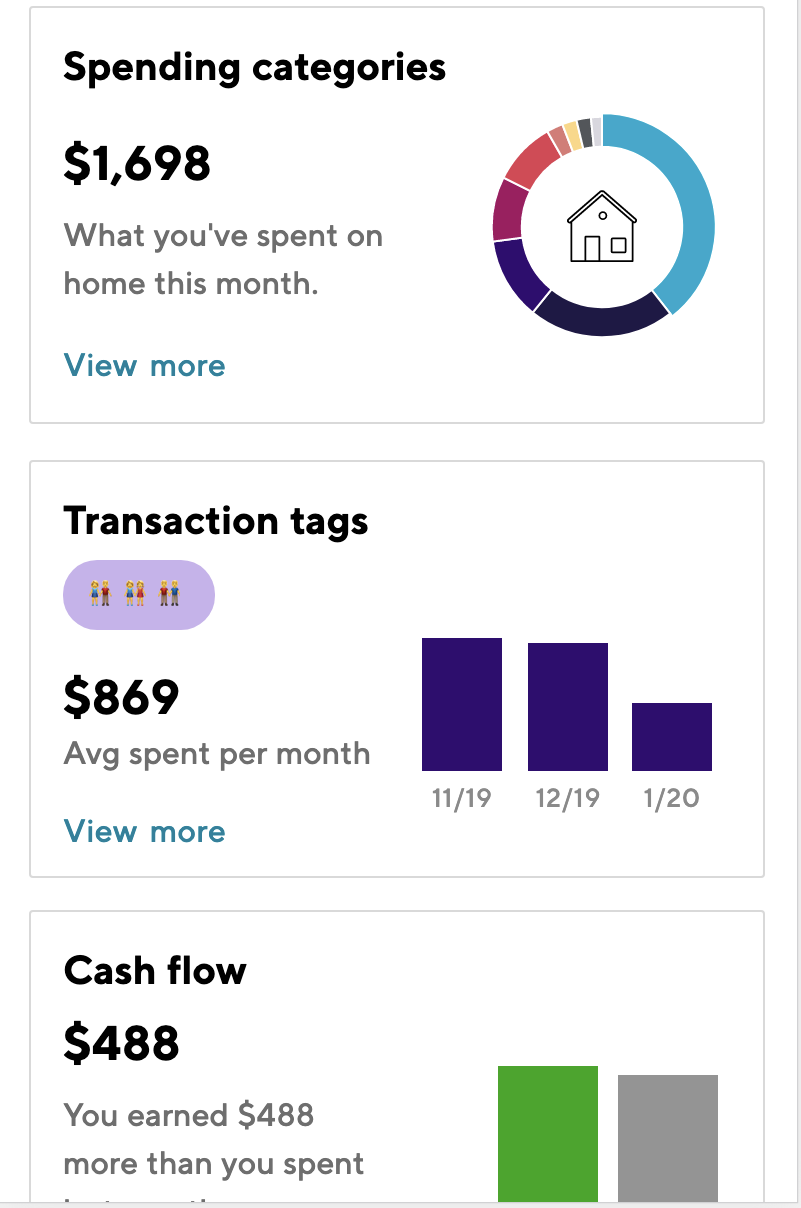
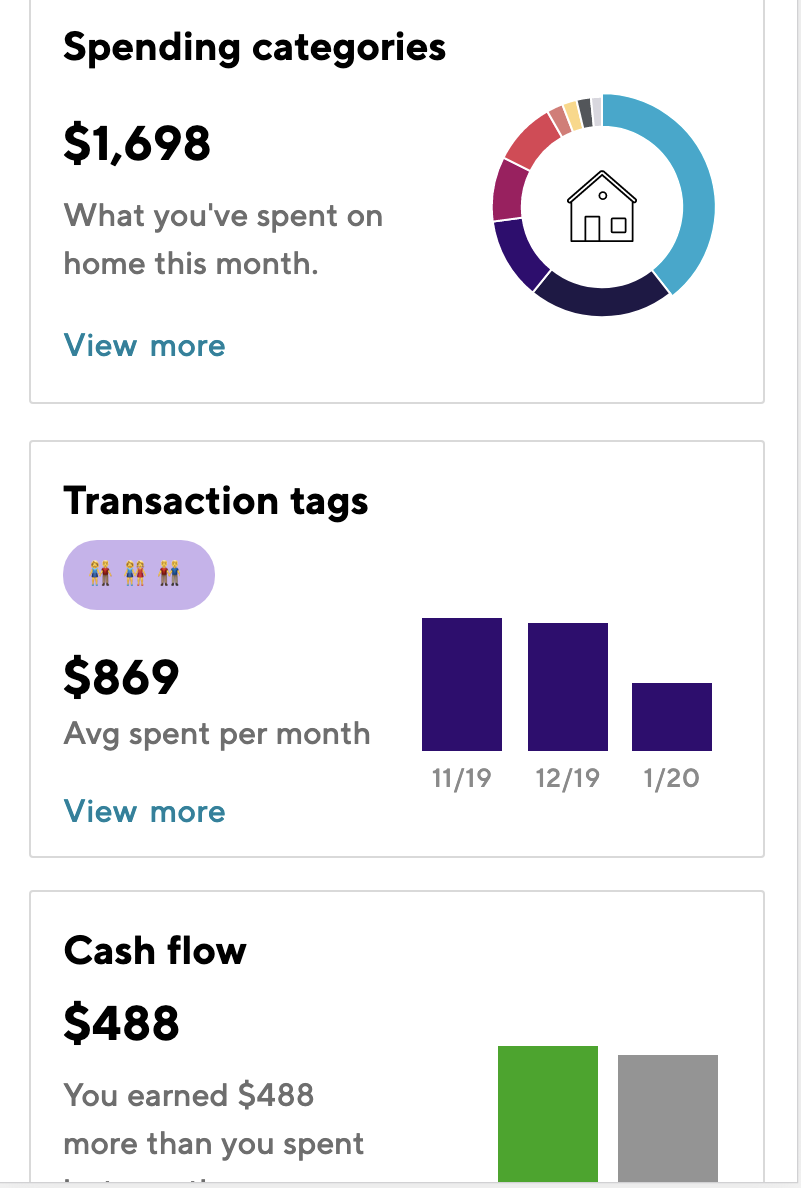
add sofi on tv image

diff --git a/src/views/cards/SoFiBrandTho.tsx b/src/views/cards/SoFiBrandTho.tsx
@@ -8,7 +8,7 @@ import {
   CardTextContent,
   CardImageContent,
 } from 'styles';
-import { RelaySuccessConnectedSrc, SofiLogo } from 'images';
+import { SoFiChartOnTVSrc, SofiLogo } from 'images';
 
 const SoFiBrandTho: React.FC = () => {
   return (
@@ -34,28 +34,29 @@ const SoFiBrandTho: React.FC = () => {
         </span>
         <ParagraphFont>
           It is really cool to contribute to an app with a spunky, sharp
-          financial voice. The SoFi brand has attracted many people to the app.
-          The rigor used to make the Relay web front-end was high from the
-          start, and that gave us good momentutom to make a product that is used
-          daily.
+          financial voice. The SoFi brand has attracted many people to the Relay
+          app.
         </ParagraphFont>
         <ParagraphFont>
           When launching the new credit score feature for Relay, the number of
           users that found the new feature in the first few months was in the
-          10,000's.
+          thousands.
         </ParagraphFont>
         <ParagraphFont>
-          Also, the chart in the app gets to be on TV!
+          <span role="img" aria-label="clapper board">
+            🎬
+          </span>
+          Also, sometimes the charts of the Relay app get to be on TV!{' '}
         </ParagraphFont>
       </CardTextContent>
       <CardImageContent>
         <img
-          src={RelaySuccessConnectedSrc}
-          alt="Relay web app"
+          src={SoFiChartOnTVSrc}
+          alt="Relay spending categories chart on TV screen during the USWNT World Cup June 2019"
           style={{
             display: 'block',
-            maxWidth: '766px',
-            maxHeight: '394px',
+            maxWidth: '600px',
+            maxHeight: '314px',
             width: '100%',
             height: 'auto',
             objectFit: 'contain',

diff --git a/src/images/index.ts b/src/images/index.ts
@@ -24,3 +24,4 @@ export { default as RelayOfflineMobileDashboardSrc } from './relay-mobile-dashbo
 export { default as ClaraCalculatorPluginSrc } from './clara-calculator-plugin.png';
 export { default as WWCReactWorkshopLeaderSrc } from './wwc-react-workshop-leader.png';
 export { default as WWCLogo } from './wwc-logo.jpg';
+export { default as SoFiChartOnTVSrc } from './sofi-chart-on-tv.png';
